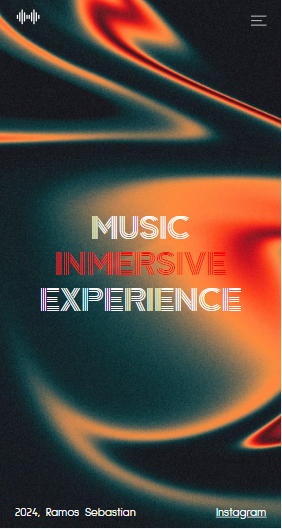
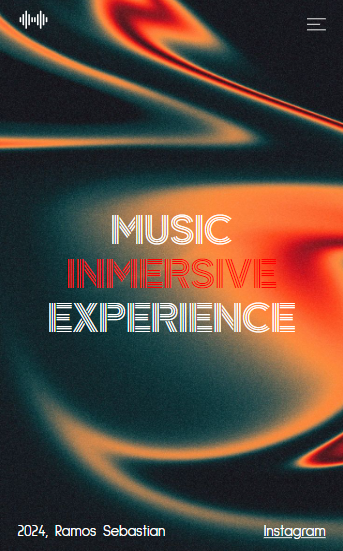
update single page

diff --git a/src/data/data.js b/src/data/data.js
@@ -1,26 +1,50 @@
 export const works = [
     {
         title: 'In-universe',
-        img: 'in-universe-phone.png',
-        imgBig: 'in-universe.png',
-        description: 'In-universe is a posting application about the universe, with a simple design with colors related to the theme of the application. Developed with React and Tailwind. It is still in development, seeking to give more interactivity to users.'
+        color: '#f3e8ff',
+        header: 'A blog of astronomy for fun and for everyone interested in the physics field',
+        description: 'In-universe is a posting application about the universe, with a simple design with colors related to the theme of the application. Developed with React and Tailwind. It is still in development, seeking to give more interactivity to users.',
+        img: {
+            one: 'in-universe-phone.png',
+            two: 'in-universe-2-phone.png',
+            three: 'in-universe-3-phone.png',
+            four: 'in-universe-4-phone.png',
+        },
     },
     {
         title: 'Nailstore',
-        img: 'nailstore-phone.png',
-        imgBig: 'NailStore-home.png',
-        description: 'An e-commerce of manicure products. The front-end of the application was developed with HTML, CSS and JavaScript using responsive site practices for all devices. The back-end was developed in JavaScript with Express and Node.js, following MVC practices. The database was designed with MySql, assembled and organized using Sequelize.'
+        color: '#fce7f3',
+        header: 'A blog of astronomy for fun and for everyone interested in the physics field',
+        description: 'An e-commerce of manicure products. The front-end of the application was developed with HTML, CSS and JavaScript using responsive site practices for all devices. The back-end was developed in JavaScript with Express and Node.js, following MVC practices. The database was designed with MySql, assembled and organized using Sequelize.',
+        img: {
+            one: 'nailstore-phone.png',
+            two: 'in-universe-2-phone.png',
+            three: 'in-universe-3-phone.png',
+            four: 'in-universe-4-phone.png',
+        },
     },
     {
         title: 'IME',
-        img: 'ime-phone.png',
-        imgBig: 'anim-app.png',
-        description: 'This page is made to demonstrate previously learned animations. It was created with framer-motion, react and typeScript'
+        color: '#fee2e2',
+        header: 'A blog of astronomy for fun and for everyone interested in the physics field',
+        description: 'This page is made to demonstrate previously learned animations. It was created with framer-motion, react and typeScript',
+        img: {
+            one: 'ime-phone.png',
+            two: 'ime-phone-2.png',
+            three: 'ime-phone-3.png',
+            four: 'ime-phone-4.png',
+        },
     },
     {
         title: 'Opencuriosity',
-        img: 'opencuriosity-phone.png',
-        imgBig: 'opencuriosity.png',
-        description: 'opencuriosity is an educational project to teach science in a more interactive way (inspired by brilliant.org) for all ages and for any level of knowledge. (Project still in design)'
+        color: "#DEDEFF",
+        header: 'A blog of astronomy for fun and for everyone interested in the physics field',
+        description: 'opencuriosity is an educational project to teach science in a more interactive way (inspired by brilliant.org) for all ages and for any level of knowledge. (Project still in design)',
+        img: {
+            one: 'opencuriosity-phone.png',
+            two: 'opencuriosity-phone-2.png',
+            three: 'opencuriosity-phone-3.png',
+            four: 'opencuriosity-phone-4.png',
+        },
     },
 ]

diff --git a/src/pages/Single.jsx b/src/pages/Single.jsx
@@ -9,32 +9,27 @@ export default function Single() {
   const { title } = useParams();
 
   const work = works.find((e) => e.title === title);
+  const image = work.img
 
   return (
     <Inner>
       <Header></Header>
-      <section className="bg-[#F4F4F2] font-roboto text-[#2D2926] px-5 pt-24">
-        <div className="flex flex-col gap-5 lg:flex-row">
-            <div className="bg-[#e3e3de] flex justify-center rounded relative max-w-[385px]">
+      <section className="font-roboto text-[#2D2926] px-5 pt-24 bg-[#F4F4F2] lg:h-screen">
+        <div>
+          <p className="text-3xl lg:text-4xl font-extralight my-1">
+            {work.header}
+          </p>
+        </div>
+        <div className="flex flex-col gap-5 lg:flex-row" >
+          {Object.values(image).map((elem, i) => (
+            <div className="flex justify-center rounded relative max-w-[385px]" 
+              key={i}
+              style={{backgroundColor: work.color}}>
             <div className="w-1/2 py-3 z-[5]">
-                <img src={`/images/${work.img}`} alt={work.title} />
+                <img src={`/images/${elem}`} alt="" />
             </div>
             </div>
-            <div className="bg-[#e3e3de] flex justify-center rounded relative max-w-[385px]">
-            <div className="w-1/2 py-3 z-[5]">
-                <img src={`/images/${work.img}`} alt={work.title} />
-            </div>
-            </div>
-            <div className="bg-[#e3e3de] flex justify-center rounded relative max-w-[385px]">
-            <div className="py-3 z-[5] flex items-center">
-                <img src={`/images/${work.imgBig}`} alt={work.title} className=""/>
-            </div>
-            </div>
-            <div className="bg-[#e3e3de] flex justify-center rounded relative max-w-[385px]">
-            <div className="w- py-3 z-[5] flex items-center">
-                <img src={`/images/${work.imgBig}`} alt={work.title} />
-            </div>
-            </div>
+                ))}
         </div>
         <div>
             <p className="font-light">

diff --git a/src/components/Card.jsx b/src/components/Card.jsx
@@ -1,9 +1,9 @@
-import { motion } from "framer-motion";
 import { Link } from "react-router-dom";
 
-export default function Card({ title, index, img,  }) {
+export default function Card({ title, index, img, bg }) {
   return (
-    <div className="bg-[#e3e3de] flex justify-center rounded relative max-w-[385px]">
+    <div className='flex justify-center rounded relative max-w-[385px]' style={{backgroundColor: bg}}>
+    
       <Link to={`/work/${title}`} className="flex">
         <div className="w-1/2 py-3 z-[5]">
           <img src={`/images/${img}`} alt={title} />

diff --git a/src/pages/Home.jsx b/src/pages/Home.jsx
@@ -51,10 +51,11 @@ export default function Home() {
                 {
                     works.map((work, i) => {
                         return <Card
-                            img={work.img}
+                            img={work.img.one}
                             index={i}
                             title={work.title}
                             key={i}
+                            bg={work.color}
                         >
                         </Card>
                     })
